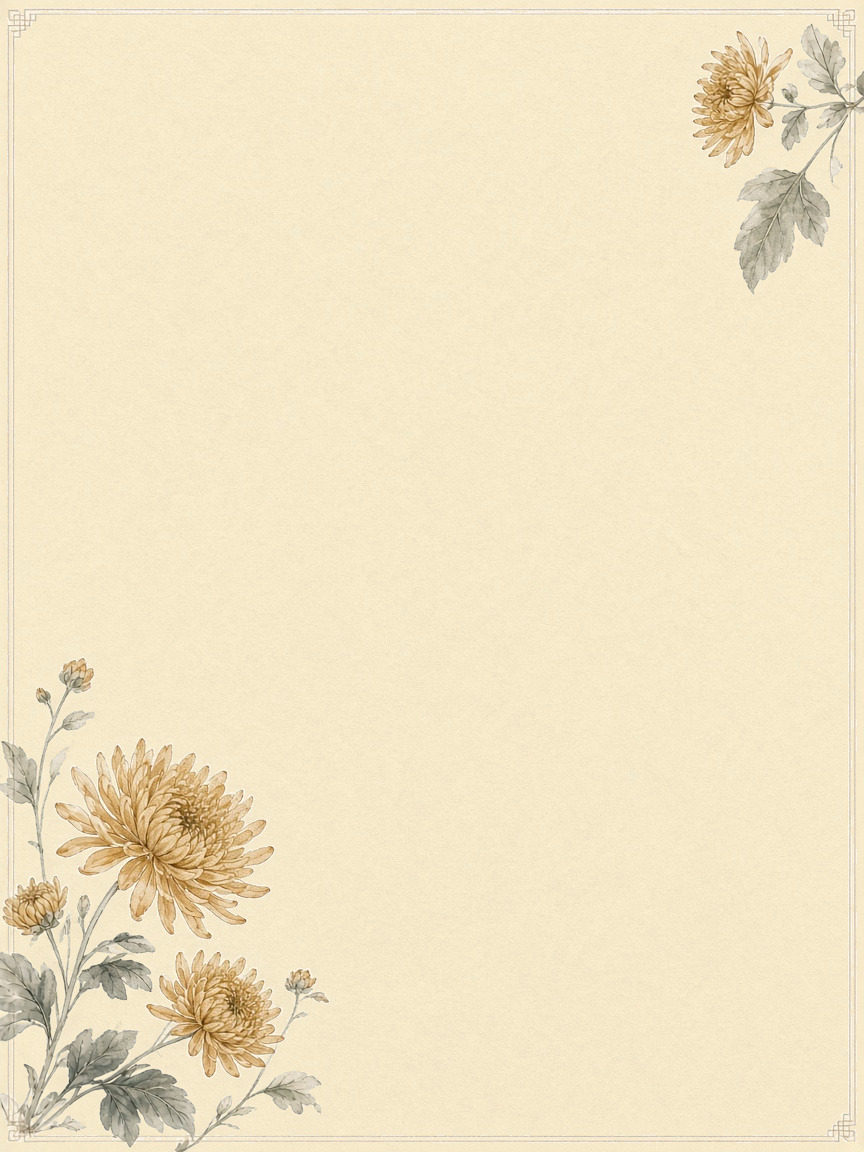
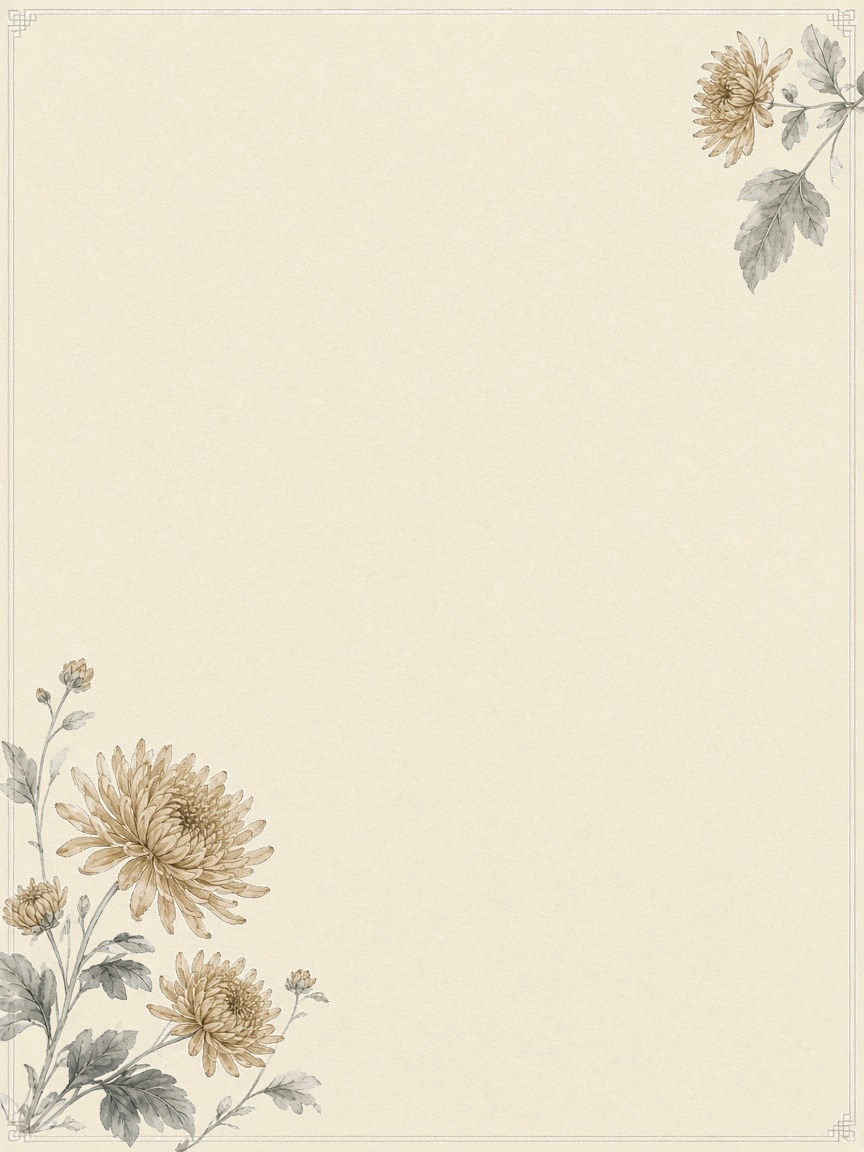
字帖背景圖飽和度降低約 35%，色調更柔和
使用者覺得五張背景顏色仍偏艷；縮圖同步更新，版本號遞增避免讀到舊圖。

Changed region(s): [[0.0938, 0.6562, 0.2812, 0.7812], [0.1875, 0.8438, 0.3125, 0.9062], [0.8125, 0.0625, 0.875, 0.125]]

diff --git a/copybook/index.html b/copybook/index.html
@@ -104,19 +104,19 @@
                                 <span class="bg-thumb bg-thumb--none"></span><span class="bg-name">無</span>
                             </button>
                             <button type="button" class="bg-tile" role="radio" aria-checked="false" data-bg="plum">
-                                <img class="bg-thumb" src="backgrounds/thumbs/plum.jpg" alt=""><span class="bg-name">梅花</span>
+                                <img class="bg-thumb" src="backgrounds/thumbs/plum.jpg?v=2" alt=""><span class="bg-name">梅花</span>
                             </button>
                             <button type="button" class="bg-tile" role="radio" aria-checked="false" data-bg="orchid">
-                                <img class="bg-thumb" src="backgrounds/thumbs/orchid.jpg" alt=""><span class="bg-name">蘭花</span>
+                                <img class="bg-thumb" src="backgrounds/thumbs/orchid.jpg?v=2" alt=""><span class="bg-name">蘭花</span>
                             </button>
                             <button type="button" class="bg-tile" role="radio" aria-checked="false" data-bg="bamboo">
-                                <img class="bg-thumb" src="backgrounds/thumbs/bamboo.jpg" alt=""><span class="bg-name">竹子</span>
+                                <img class="bg-thumb" src="backgrounds/thumbs/bamboo.jpg?v=2" alt=""><span class="bg-name">竹子</span>
                             </button>
                             <button type="button" class="bg-tile" role="radio" aria-checked="false" data-bg="chrysanthemum">
-                                <img class="bg-thumb" src="backgrounds/thumbs/chrysanthemum.jpg" alt=""><span class="bg-name">菊花</span>
+                                <img class="bg-thumb" src="backgrounds/thumbs/chrysanthemum.jpg?v=2" alt=""><span class="bg-name">菊花</span>
                             </button>
                             <button type="button" class="bg-tile" role="radio" aria-checked="false" data-bg="peony">
-                                <img class="bg-thumb" src="backgrounds/thumbs/peony.jpg" alt=""><span class="bg-name">牡丹</span>
+                                <img class="bg-thumb" src="backgrounds/thumbs/peony.jpg?v=2" alt=""><span class="bg-name">牡丹</span>
                             </button>
                             <button type="button" class="bg-tile bg-tile--upload" role="radio" aria-checked="false" data-bg="upload" id="btnBgImageUpload" title="上傳圖片作為字帖背景">
                                 <span class="bg-thumb bg-thumb--upload" id="bgUploadThumb"><span class="bg-plus" aria-hidden="true">＋</span></span><span class="bg-name">上傳</span>
@@ -181,6 +181,6 @@
         </div>
     </div>
 
-    <script src="app.js?v=74"></script>
+    <script src="app.js?v=75"></script>
 </body>
 </html>

diff --git a/copybook/app.js b/copybook/app.js
@@ -123,11 +123,11 @@
     var STROKE_CELLS_PER_LINE = 12;
     var BRUSH_FONT_STACK = "'YShiPenShutiTC', 'Kaiti TC', 'STKaiti', 'KaiTi', serif";
     var PHOTO_BGS = {
-        plum: 'backgrounds/\u6885\u82b1.jpg?v=4',
-        orchid: 'backgrounds/\u862d\u82b1.jpg?v=4',
-        bamboo: 'backgrounds/\u7af9\u5b50.jpg?v=4',
-        chrysanthemum: 'backgrounds/\u83ca\u82b1.jpg?v=4',
-        peony: 'backgrounds/\u7261\u4e39.jpg?v=4'
+        plum: 'backgrounds/\u6885\u82b1.jpg?v=5',
+        orchid: 'backgrounds/\u862d\u82b1.jpg?v=5',
+        bamboo: 'backgrounds/\u7af9\u5b50.jpg?v=5',
+        chrysanthemum: 'backgrounds/\u83ca\u82b1.jpg?v=5',
+        peony: 'backgrounds/\u7261\u4e39.jpg?v=5'
     };
     var preview = document.getElementById('preview');
     var btnPdf = document.getElementById('btnPdf');
